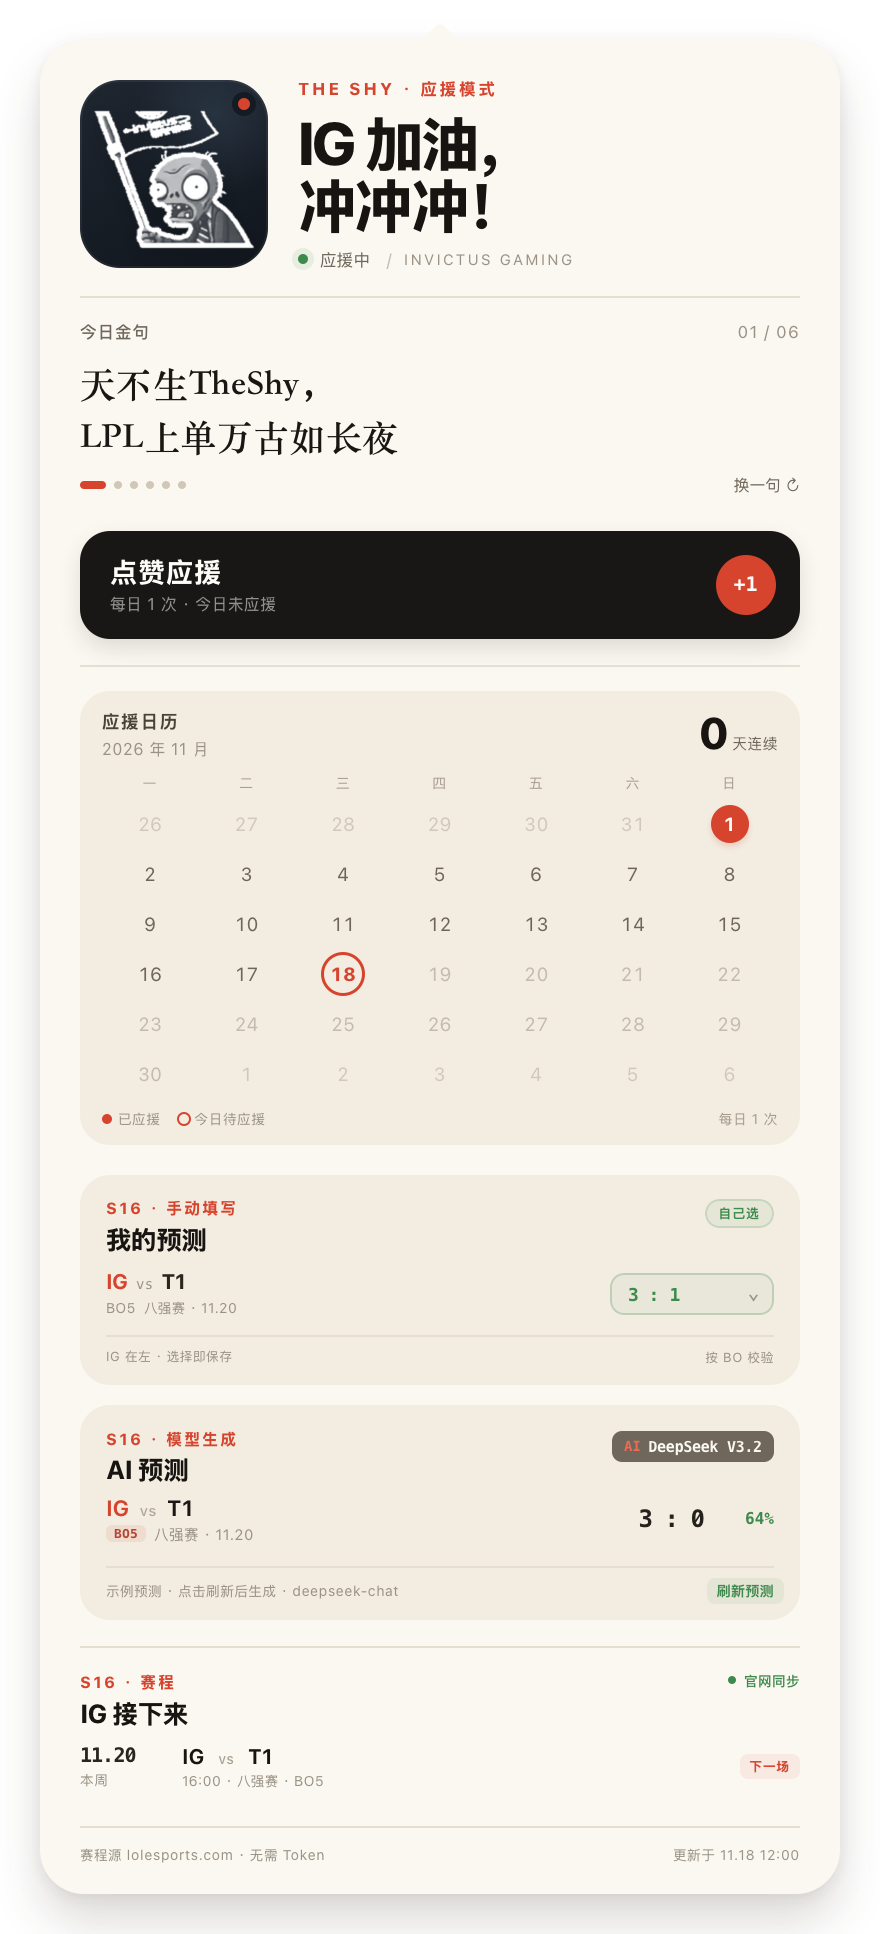
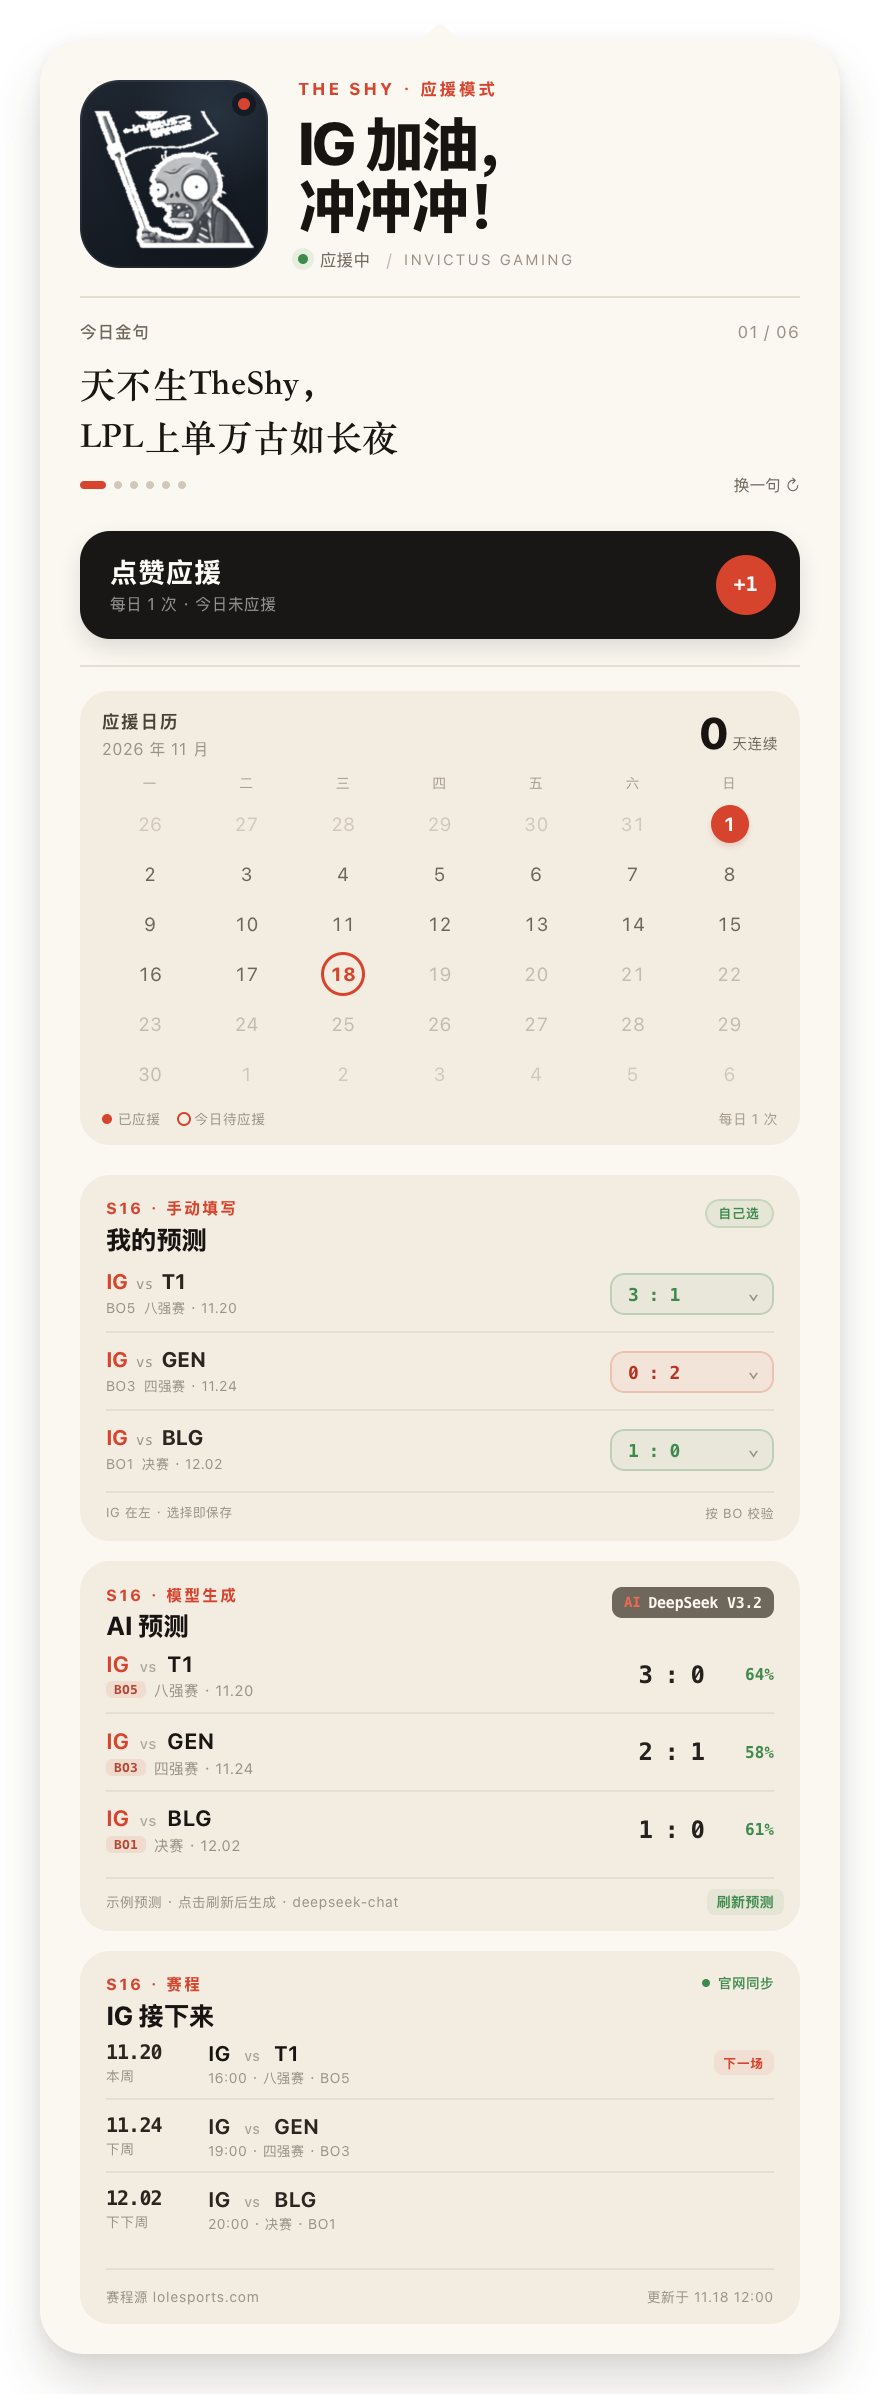
Card schedule section and align horizontal dashboard columns

diff --git a/Sources/panel.js b/Sources/panel.js
@@ -224,7 +224,7 @@
 
   const scheduleFootnote = (state) => state.scheduleSample
     ? "赛程示例 · 右键「刷新赛程」拉取官网"
-    : "赛程源 lolesports.com · 无需 Token";
+    : "赛程源 lolesports.com";
 
   const verticalMarkup = (state) => `
     <header class="identity">
@@ -300,21 +300,22 @@
       </div>
     </section>
 
-    <section class="block">
-      <div class="section-head">
-        <div>
-          <div class="eyebrow">S16 · 赛程</div>
-          <div class="section-title">IG 接下来</div>
+    <section class="block v-schedule-section">
+      <div class="v-schedule-card">
+        <div class="section-head">
+          <div>
+            <div class="eyebrow">S16 · 赛程</div>
+            <div class="section-title">IG 接下来</div>
+          </div>
+          <span class="sync"><i class="sync-dot"></i>${state.scheduleSample ? "示例" : "官网同步"}</span>
         </div>
-        <span class="sync"><i class="sync-dot"></i>${state.scheduleSample ? "示例" : "官网同步"}</span>
+        <div class="schedule-list">${fixtureRows(state)}</div>
+        <footer class="footer">
+          <span>${scheduleFootnote(state)}</span>
+          <span class="footer-right">${escapeHTML(state.scheduleUpdated)}</span>
+        </footer>
       </div>
-      <div class="schedule-list">${fixtureRows(state)}</div>
-    </section>
-
-    <footer class="footer">
-      <span>${scheduleFootnote(state)}</span>
-      <span class="footer-right">${escapeHTML(state.scheduleUpdated)}</span>
-    </footer>`;
+    </section>`;
 
   const horizontalMarkup = (state) => `
     <div class="top">

diff --git a/Sources/panel.css b/Sources/panel.css
@@ -560,6 +560,17 @@ h1 {
 }
 .ai-card .section-head { margin-bottom: 5px; }
 .ai-card .pred-foot { margin-top: 5px; }
+.v-schedule-section {
+  margin-top: 10px;
+  padding-top: 0;
+  border-top: 0;
+}
+.v-schedule-card {
+  padding: 12px 13px 10px;
+  border-radius: 15px;
+  background: var(--paper-2);
+}
+.v-schedule-card .section-head { margin-bottom: 5px; }
 .quote-section + .cta { margin-top: 18px; }
 .manual-tag {
   flex: 0 0 auto;
@@ -1149,5 +1160,8 @@ button:focus { outline: none; }
 }
 #toast.show { opacity: 1; transform: translate(-50%, 0); }
 .v2 .dashboard.compact-dashboard { align-items: start; }
-.v2 .dashboard.compact-dashboard .dash-card { align-self: start; }
+.v2 .prediction-stack .dash-card {
+  width: 100%;
+  align-self: stretch;
+}
 .panel.v2.compact { min-height: 0; }

diff --git a/Sources/main.swift b/Sources/main.swift
@@ -451,7 +451,7 @@ final class AppDelegate: NSObject, NSApplicationDelegate {
 
         menu.addItem(.separator())
 
-        let scheduleItem = NSMenuItem(title: "刷新赛程（官网 · 无需 Token）",
+        let scheduleItem = NSMenuItem(title: "刷新赛程（官网）",
                                       action: #selector(refreshScheduleAction), keyEquivalent: "")
         scheduleItem.target = self
         menu.addItem(scheduleItem)
